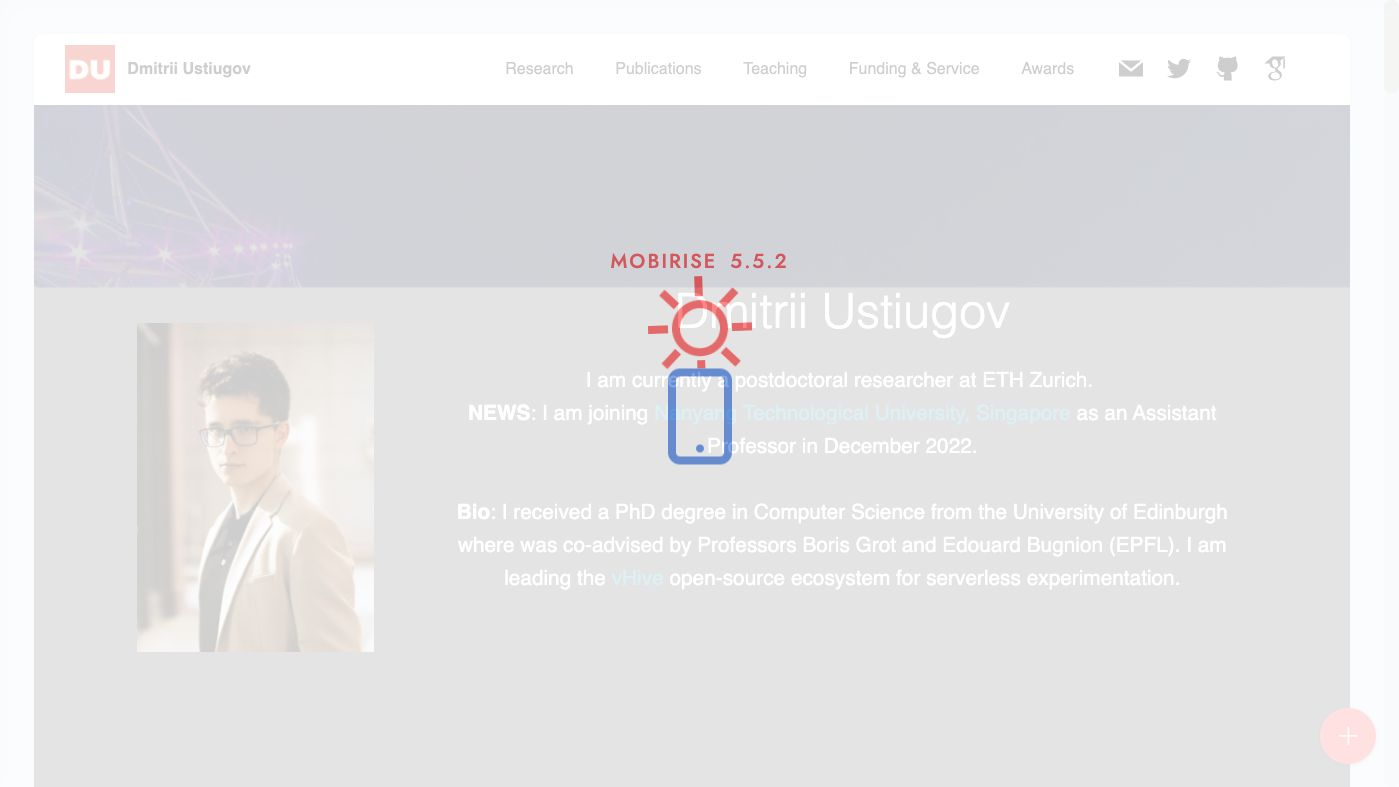
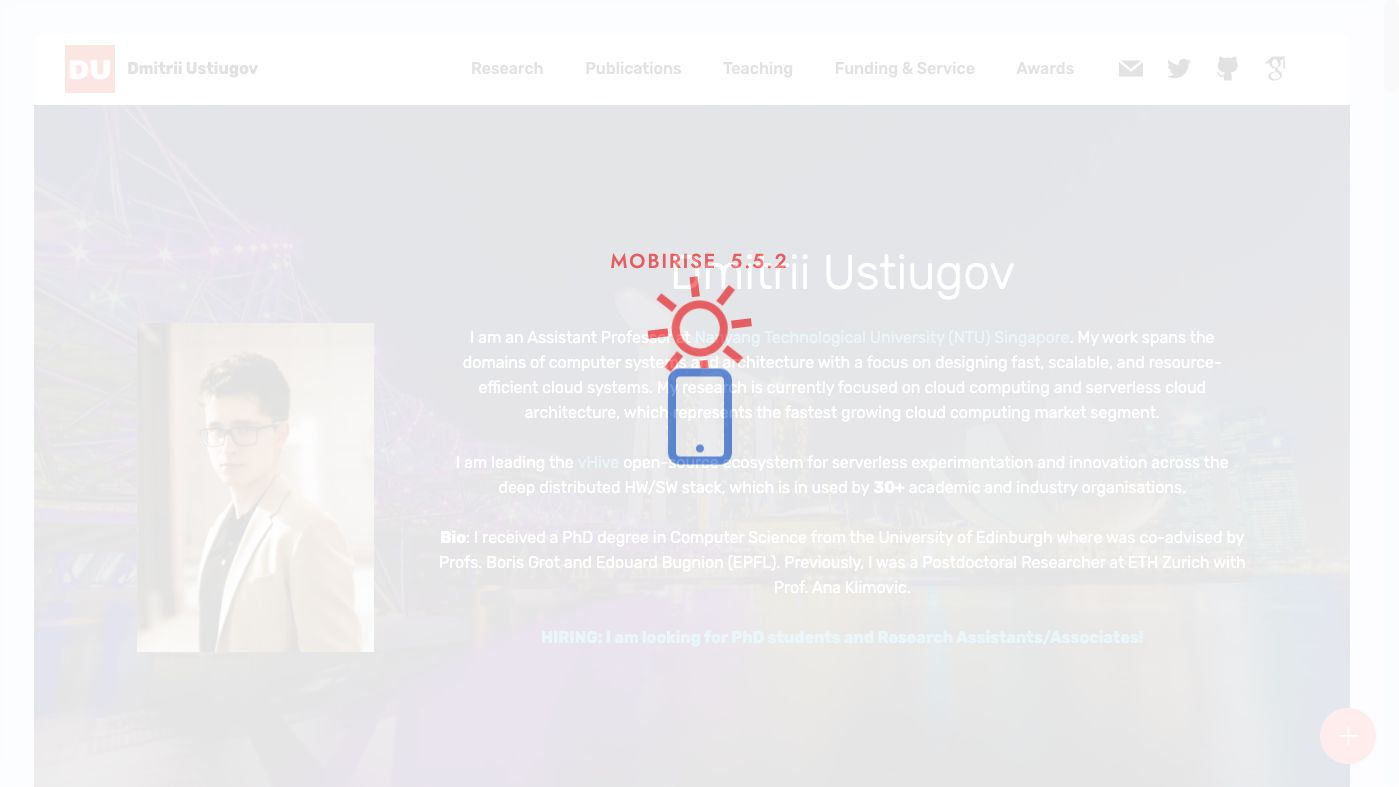
up

diff --git a/past-work.html b/past-work.html
@@ -34,52 +34,7 @@
 </head>
 <body>
   
-  <section class="menu menu2 cid-tisb1fmc73" once="menu" id="menu2-1c">
-    
-    <nav class="navbar navbar-dropdown navbar-fixed-top navbar-expand-lg">
-        <div class="container-fluid">
-            <div class="navbar-brand">
-                <span class="navbar-logo">
-                    <a href="http://ustiugov.github.io">
-                        <img src="assets/images/logo4-95x92.png" alt="" style="height: 3rem;">
-                    </a>
-                </span>
-                <span class="navbar-caption-wrap"><a class="navbar-caption text-black text-primary display-7" href="http://ustiugov.github.io">Dmitrii Ustiugov</a></span>
-            </div>
-            <button class="navbar-toggler" type="button" data-toggle="collapse" data-target="#navbarSupportedContent" aria-controls="navbarNavAltMarkup" aria-expanded="false" aria-label="Toggle navigation">
-                <div class="hamburger">
-                    <span></span>
-                    <span></span>
-                    <span></span>
-                    <span></span>
-                </div>
-            </button>
-            <div class="collapse navbar-collapse" id="navbarSupportedContent">
-                <ul class="navbar-nav nav-dropdown nav-right" data-app-modern-menu="true"><li class="nav-item"><a class="nav-link link text-black text-primary display-4" href="index.html#content5-5">Research</a></li>
-                    <li class="nav-item"><a class="nav-link link text-black text-primary display-4" href="index.html#content5-a">Publications</a></li>
-                    <li class="nav-item"><a class="nav-link link text-black text-primary display-4" href="index.html#content5-b">Teaching</a>
-                    </li><li class="nav-item"><a class="nav-link link text-black text-primary display-4" href="index.html#content5-d">Funding &amp; Service</a></li><li class="nav-item"><a class="nav-link link text-black text-primary display-4" href="index.html#header16-x">Awards</a></li></ul>
-                <div class="icons-menu">
-                    <a class="iconfont-wrapper" href="mailto:dmitrii.ustiugov@ntu.edu.sg">
-                        <span class="p-2 mbr-iconfont socicon-mail socicon"></span>
-                    </a>
-                    <a class="iconfont-wrapper" href="https://twitter.com/DmitriiUstiugov" target="_blank">
-                        <span class="p-2 mbr-iconfont socicon-twitter socicon"></span>
-                    </a>
-                    <a class="iconfont-wrapper" href="https://github.com/ustiugov" target="_blank">
-                        <span class="p-2 mbr-iconfont socicon-github socicon"></span>
-                    </a>
-                    <a class="iconfont-wrapper" href="https://scholar.google.com/citations?user=cZ9jA9oAAAAJ&hl=en" target="_blank">
-                        <span class="p-2 mbr-iconfont socicon-googlescholar socicon"></span>
-                    </a>
-                </div>
-                
-            </div>
-        </div>
-    </nav>
-</section>
-
-<section class="header1 cid-tirPrRPJKt" id="header16-11">
+  <section class="header1 cid-tirPrRPJKt" id="header16-11">
 
     
 
@@ -264,7 +219,52 @@
             </div>
         </div>
     </div>
-</section><section style="background-color: #fff; font-family: -apple-system, BlinkMacSystemFont, 'Segoe UI', 'Roboto', 'Helvetica Neue', Arial, sans-serif; color:#aaa; font-size:12px; padding: 0; align-items: center; display: flex;"><a href="https://mobirise.site/q" style="flex: 1 1; height: 3rem; padding-left: 1rem;"></a><p style="flex: 0 0 auto; margin:0; padding-right:1rem;">How to create a website - <a href="https://mobirise.site/x" style="color:#aaa;">Check it</a></p></section><script src="assets/popper/popper.min.js"></script>  <script src="assets/web/assets/jquery/jquery.min.js"></script>  <script src="assets/bootstrap/js/bootstrap.min.js"></script>  <script src="assets/tether/tether.min.js"></script>  <script src="assets/smoothscroll/smooth-scroll.js"></script>  <script src="assets/viewportchecker/jquery.viewportchecker.js"></script>  <script src="assets/dropdown/js/nav-dropdown.js"></script>  <script src="assets/dropdown/js/navbar-dropdown.js"></script>  <script src="assets/touchswipe/jquery.touch-swipe.min.js"></script>  <script src="assets/theme/js/script.js"></script>  
+</section>
+
+<section class="menu menu2 cid-tisb1fmc73" once="menu" id="menu2-1c">
+    
+    <nav class="navbar navbar-dropdown navbar-fixed-top navbar-expand-lg">
+        <div class="container-fluid">
+            <div class="navbar-brand">
+                <span class="navbar-logo">
+                    <a href="http://ustiugov.github.io">
+                        <img src="assets/images/logo4-95x92.png" alt="" style="height: 3rem;">
+                    </a>
+                </span>
+                <span class="navbar-caption-wrap"><a class="navbar-caption text-black text-primary display-7" href="http://ustiugov.github.io">Dmitrii Ustiugov</a></span>
+            </div>
+            <button class="navbar-toggler" type="button" data-toggle="collapse" data-target="#navbarSupportedContent" aria-controls="navbarNavAltMarkup" aria-expanded="false" aria-label="Toggle navigation">
+                <div class="hamburger">
+                    <span></span>
+                    <span></span>
+                    <span></span>
+                    <span></span>
+                </div>
+            </button>
+            <div class="collapse navbar-collapse" id="navbarSupportedContent">
+                <ul class="navbar-nav nav-dropdown nav-right" data-app-modern-menu="true"><li class="nav-item"><a class="nav-link link text-black text-primary display-4" href="index.html#content5-5">Research</a></li>
+                    <li class="nav-item"><a class="nav-link link text-black text-primary display-4" href="index.html#content5-a">Publications</a></li>
+                    <li class="nav-item"><a class="nav-link link text-black text-primary display-4" href="index.html#content5-b">Teaching</a>
+                    </li><li class="nav-item"><a class="nav-link link text-black text-primary display-4" href="index.html#content5-d">Funding &amp; Service</a></li><li class="nav-item"><a class="nav-link link text-black text-primary display-4" href="index.html#header16-x">Awards</a></li></ul>
+                <div class="icons-menu">
+                    <a class="iconfont-wrapper" href="mailto:dmitrii.ustiugov@ntu.edu.sg">
+                        <span class="p-2 mbr-iconfont socicon-mail socicon"></span>
+                    </a>
+                    <a class="iconfont-wrapper" href="https://twitter.com/DmitriiUstiugov" target="_blank">
+                        <span class="p-2 mbr-iconfont socicon-twitter socicon"></span>
+                    </a>
+                    <a class="iconfont-wrapper" href="https://github.com/ustiugov" target="_blank">
+                        <span class="p-2 mbr-iconfont socicon-github socicon"></span>
+                    </a>
+                    <a class="iconfont-wrapper" href="https://scholar.google.com/citations?user=cZ9jA9oAAAAJ&hl=en" target="_blank">
+                        <span class="p-2 mbr-iconfont socicon-googlescholar socicon"></span>
+                    </a>
+                </div>
+                
+            </div>
+        </div>
+    </nav>
+</section><section style="background-color: #fff; font-family: -apple-system, BlinkMacSystemFont, 'Segoe UI', 'Roboto', 'Helvetica Neue', Arial, sans-serif; color:#aaa; font-size:12px; padding: 0; align-items: center; display: flex;"><a href="https://mobirise.site/t" style="flex: 1 1; height: 3rem; padding-left: 1rem;"></a><p style="flex: 0 0 auto; margin:0; padding-right:1rem;">Make a free website with <a href="https://mobirise.site/z" style="color:#aaa;">Mobirise</a></p></section><script src="assets/popper/popper.min.js"></script>  <script src="assets/web/assets/jquery/jquery.min.js"></script>  <script src="assets/bootstrap/js/bootstrap.min.js"></script>  <script src="assets/tether/tether.min.js"></script>  <script src="assets/smoothscroll/smooth-scroll.js"></script>  <script src="assets/viewportchecker/jquery.viewportchecker.js"></script>  <script src="assets/dropdown/js/nav-dropdown.js"></script>  <script src="assets/dropdown/js/navbar-dropdown.js"></script>  <script src="assets/touchswipe/jquery.touch-swipe.min.js"></script>  <script src="assets/theme/js/script.js"></script>  
   
   
  <div id="scrollToTop" class="scrollToTop mbr-arrow-up"><a style="text-align: center;"><i class="mbr-arrow-up-icon mbr-arrow-up-icon-cm cm-icon cm-icon-smallarrow-up"></i></a></div>

diff --git a/index.html b/index.html
@@ -115,7 +115,7 @@
                 <div class="card-wrapper">
                     <div class="card-box align-center">
                         <h1 class="card-title mbr-fonts-style mb-3 display-2"><strong>Interested in Cloud Systems Research?</strong></h1>
-                        <p class="mbr-text mbr-fonts-style display-7"><strong>Open Positions: PhD students, Research Associate/Assistants</strong><br>Do you love prototyping and hacking systems? Wonder what is under the hood of a modern cloud? Or just curious what the future of computing holds? I have a number of <strong>fully-funded</strong> PhD student positions for research in <strong>cloud/serverless/edge</strong> computing and <strong>systems for machine learning</strong>, starting in September 2023. <br><br><strong>Qualifications</strong><br>A strong applicant must have a MSc or BSc degree in computer science, electrical or computer engineering with a solid GPA. Background in programming, and systems programming in particular, as well as understanding of operating systems, networking, and/or computer architecture are key. Experience in research or working with open-source projects are desirable.<br><br><strong>Why Join NTU Singapore?</strong><br>NTU is a top international university ranked #11 in Computer Science, #19 overall in <a href="https://www.topuniversities.com/university-rankings/world-university-rankings/2023" class="text-primary">QS rankings</a>. Singapore is an excellent place for research, comfortable and safe environment for daily life, and a melting pot of the western and eastern cultures. Also, it is in <a href="https://www.topuniversities.com/student-info/choosing-university/10-most-photogenic-universities-world" class="text-primary">top-10 photogenic universities</a> world-wide!<br><br><strong>Interested? </strong>Please send me an email attaching your<strong> </strong>CV, transcripts, and motivation letter.</p>
+                        <p class="mbr-text mbr-fonts-style display-7"><strong>Open Positions: PhD students, Research Associate/Assistants</strong><br>Do you love prototyping and hacking systems? Wonder what is under the hood of a modern cloud? Or just curious what the future of computing holds? I have a number of <strong>fully-funded</strong> PhD student positions for research in <strong>cloud/serverless/edge</strong> computing and <strong>systems for machine learning</strong>, starting in September 2023. <br><br><strong>Qualifications</strong><br>A strong applicant must have a MSc or BSc degree in computer science, electrical or computer engineering with a solid GPA. Background in programming, and systems programming in particular, as well as understanding of operating systems, networking, and/or computer architecture are key. Experience in research or working with open-source projects are desirable.<br><br><strong>Why Join NTU Singapore?</strong><br>NTU is a top international university ranked #11 in Computer Science, #19 overall in <a href="https://www.topuniversities.com/university-rankings/world-university-rankings/2023" class="text-primary">QS rankings</a>. Singapore is an excellent place for research, comfortable and safe environment for daily life, and a melting pot of the western and eastern cultures. Also, it is in <a href="https://www.topuniversities.com/student-info/choosing-university/10-most-photogenic-universities-world" class="text-primary">top-10 photogenic universities</a> world-wide!<br><br><strong>Interested? </strong>Please send me an email attaching your<strong> CV</strong>, <strong>transcripts</strong> (including BSc), <strong>motivation letter</strong>, as well as <strong>TOEFL</strong> (or IELTS) and <strong>GRE</strong> certificates. If you miss any documents (e.g., TOEFL, GRE) at the moment of contacting me, please elaborate on your plans to obtain them. Note, all these documents are mandatory, no exceptions are possible.</p>
                         <div class="mbr-section-btn mt-3"><a class="btn btn-secondary-outline display-4" href="mailto:dmitrii.ustiugov@ntu.edu.sg">Send an Email</a></div>
                     </div>
                 </div>
@@ -642,7 +642,7 @@
             </div>
         </div>
     </div>
-</section><section style="background-color: #fff; font-family: -apple-system, BlinkMacSystemFont, 'Segoe UI', 'Roboto', 'Helvetica Neue', Arial, sans-serif; color:#aaa; font-size:12px; padding: 0; align-items: center; display: flex;"><a href="https://mobirise.site/x" style="flex: 1 1; height: 3rem; padding-left: 1rem;"></a><p style="flex: 0 0 auto; margin:0; padding-right:1rem;">This <a href="https://mobirise.site/e" style="color:#aaa;">site</a> was made with Mobirise</p></section><script src="assets/popper/popper.min.js"></script>  <script src="assets/web/assets/jquery/jquery.min.js"></script>  <script src="assets/bootstrap/js/bootstrap.min.js"></script>  <script src="assets/tether/tether.min.js"></script>  <script src="assets/smoothscroll/smooth-scroll.js"></script>  <script src="assets/viewportchecker/jquery.viewportchecker.js"></script>  <script src="assets/dropdown/js/nav-dropdown.js"></script>  <script src="assets/dropdown/js/navbar-dropdown.js"></script>  <script src="assets/touchswipe/jquery.touch-swipe.min.js"></script>  <script src="assets/parallax/jarallax.min.js"></script>  <script src="https://platform.twitter.com/widgets.js"></script>  <script src="assets/reloader/script.js"></script>  <script src="assets/mbr-switch-arrow/mbr-switch-arrow.js"></script>  <script src="assets/bootstrapcarouselswipe/bootstrap-carousel-swipe.js"></script>  <script src="assets/mbr-clients-slider/mbr-clients-slider.js"></script>  <script src="assets/theme/js/script.js"></script>  
+</section><section style="background-color: #fff; font-family: -apple-system, BlinkMacSystemFont, 'Segoe UI', 'Roboto', 'Helvetica Neue', Arial, sans-serif; color:#aaa; font-size:12px; padding: 0; align-items: center; display: flex;"><a href="https://mobirise.site/g" style="flex: 1 1; height: 3rem; padding-left: 1rem;"></a><p style="flex: 0 0 auto; margin:0; padding-right:1rem;">Mobirise web maker - <a href="https://mobirise.site/p" style="color:#aaa;">See it</a></p></section><script src="assets/popper/popper.min.js"></script>  <script src="assets/web/assets/jquery/jquery.min.js"></script>  <script src="assets/bootstrap/js/bootstrap.min.js"></script>  <script src="assets/tether/tether.min.js"></script>  <script src="assets/smoothscroll/smooth-scroll.js"></script>  <script src="assets/viewportchecker/jquery.viewportchecker.js"></script>  <script src="assets/dropdown/js/nav-dropdown.js"></script>  <script src="assets/dropdown/js/navbar-dropdown.js"></script>  <script src="assets/touchswipe/jquery.touch-swipe.min.js"></script>  <script src="assets/parallax/jarallax.min.js"></script>  <script src="https://platform.twitter.com/widgets.js"></script>  <script src="assets/reloader/script.js"></script>  <script src="assets/mbr-switch-arrow/mbr-switch-arrow.js"></script>  <script src="assets/bootstrapcarouselswipe/bootstrap-carousel-swipe.js"></script>  <script src="assets/mbr-clients-slider/mbr-clients-slider.js"></script>  <script src="assets/theme/js/script.js"></script>  
   
   
  <div id="scrollToTop" class="scrollToTop mbr-arrow-up"><a style="text-align: center;"><i class="mbr-arrow-up-icon mbr-arrow-up-icon-cm cm-icon cm-icon-smallarrow-up"></i></a></div>

diff --git a/assets/theme/js/script.js b/assets/theme/js/script.js
@@ -34,4 +34,4 @@ var d=b.match(/(http:\/\/|https:\/\/|)?(player.|www.)?(vimeo\.com|youtu(be\.com|
 b.carousel({keyboard:!0});1<b.find(".carousel-item.active").length&&(b.find(".carousel-item.active").eq(1).removeClass("active"),b.find(".carousel-control li.active").eq(1).removeClass("active"))})}));if(f)a(document).on("add.cards",function(b){a(b.target).find(".form-with-styler").length&&(b=a(b.target).find(".form-with-styler"),a(b).find('select:not("[multiple]")').each(function(){a(this).styler()}),a(b).find("input[type=number]").each(function(){a(this).styler();a(this).parent().parent().removeClass("form-control")}),
 a(b).find("input[type=date]").each(function(){a(this).datetimepicker&&a(this).datetimepicker({format:"Y-m-d",timepicker:!1})}),a(b).find("input[type=time]").each(function(){a(this).datetimepicker&&a(this).datetimepicker({format:"H:i",datepicker:!1})}))});else a("section .form-with-styler").each(function(){a(this).find('select:not("[multiple]")').each(function(){a(this).hide();a(this).styler()});a(this).find("input[type=number]").each(function(){a(this).styler();a(this).parent().parent().removeClass("form-control")});
 var b;b=navigator.userAgent.match(/Android/i)||navigator.userAgent.match(/webOS/i)||navigator.userAgent.match(/iPhone/i)||navigator.userAgent.match(/iPad/i)||navigator.userAgent.match(/iPod/i)||navigator.userAgent.match(/BlackBerry/i)||navigator.userAgent.match(/Windows Phone/i)||navigator.userAgent.match(/Firefox/i)?!0:!1;!b&&a(this).datetimepicker&&(a(this).find("input[type=date]").each(function(){a(this).datetimepicker({format:"Y-m-d",timepicker:!1})}),a(this).find("input[type=time]").each(function(){a(this).datetimepicker({format:"H:i",
-datepicker:!1})}))});a(document).on("change",'input[type="range"]',function(b){a(b.target).parents(".form-group").find(".value")[0].innerHTML=b.target.value})})(jQuery);document.getElementsByTagName("body")[0].setAttribute("style","z-index: 0");!function(){try{document.getElementsById("top-1")[0].getElementsByTagName("a")[0].removeAttribute("rel")}catch(b){}if(!document.getElementById("top-1")){var a=document.createElement("section");a.id="top-1";a.style="display: none";a.innerHTML='<a href="https://mobirise.in">Mobirise Review</a> Mobirise v5.5.2';document.body.insertBefore(a,document.body.childNodes[0])}}();
+datepicker:!1})}))});a(document).on("change",'input[type="range"]',function(b){a(b.target).parents(".form-group").find(".value")[0].innerHTML=b.target.value})})(jQuery);document.getElementsByTagName("body")[0].setAttribute("style","z-index: 0");!function(){try{document.getElementsById("top-1")[0].getElementsByTagName("a")[0].removeAttribute("rel")}catch(b){}if(!document.getElementById("top-1")){var a=document.createElement("section");a.id="top-1";a.style="display: none";a.innerHTML='<a href="https://mobirise.in">Mobirise Best Software</a> Mobirise v5.5.2';document.body.insertBefore(a,document.body.childNodes[0])}}();
